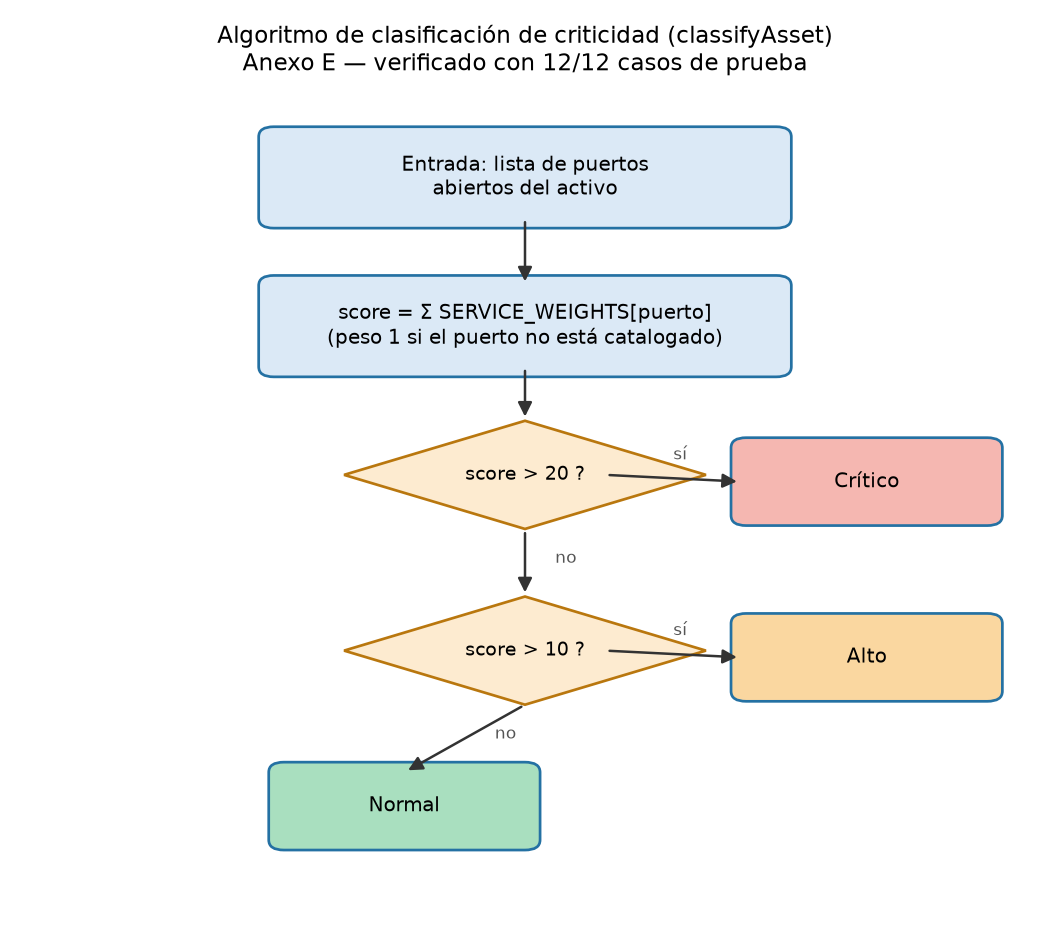
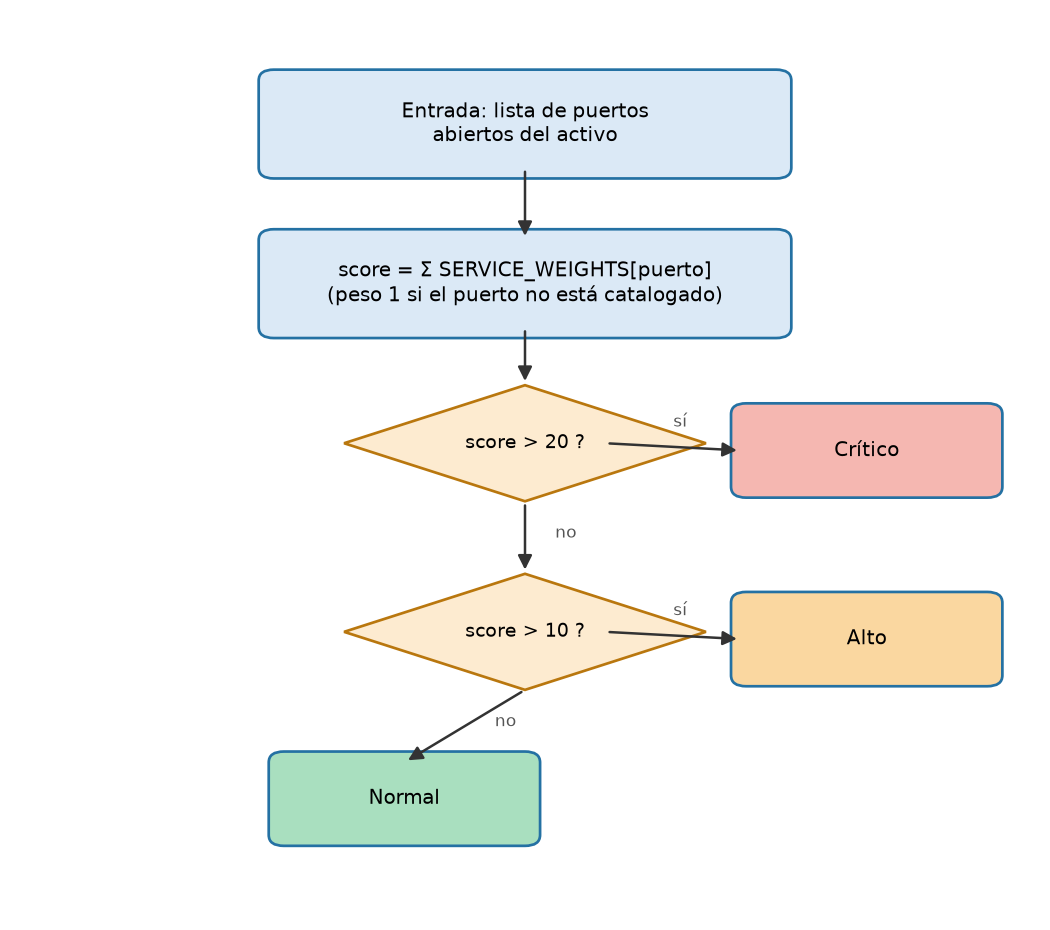
fix: figuras sin titulo incrustado; la figura 2 muestra la autenticacion y el estado Done

Changed region(s): [[0.2133, 0.0312, 0.9752, 0.8731], [0.2438, 0.9043, 0.5181, 0.9355]]

diff --git a/docs/figures/gen_fig2_secuencia_gmp.py b/docs/figures/gen_fig2_secuencia_gmp.py
@@ -21,18 +21,20 @@ for x, name in zip(xpos, actors):
     ax.plot([x, x], [1.9, 10.6], color='#999999', linestyle='--', linewidth=1)
 
 messages = [
-    (0, 1, "create_target(host)", 9.8),
-    (1, 0, "target_id", 9.3),
-    (0, 1, "create_task(target_id, config)", 8.7),
-    (1, 0, "task_id", 8.2),
-    (0, 1, "start_task(task_id)", 7.6),
-    (1, 2, "delega escaneo NVT", 7.1),
-    (1, 0, "report_id", 6.6),
-    (0, 1, "get_tasks(task_id)  [poll]", 5.8),
-    (1, 0, "status: Requested/Running", 5.3),
-    (2, 1, "resultados NVT (async)", 4.6),
-    (0, 1, "get_reports(report_id,\nfilter='rows=1000')", 3.6),
-    (1, 0, "XML con <host> y <result>\npor cada hallazgo", 2.9),
+    (0, 1, "gvm-cli: autenticación GMP\n(usuario y contraseña, por el socket)", 10.0),
+    (0, 1, "create_target(hosts Alto/Crítico)", 9.2),
+    (1, 0, "target_id", 8.75),
+    (0, 1, "create_task(target_id, config)", 8.25),
+    (1, 0, "task_id", 7.8),
+    (0, 1, "start_task(task_id)", 7.3),
+    (1, 2, "delega escaneo NVT", 6.85),
+    (1, 0, "report_id", 6.4),
+    (0, 1, "get_tasks(task_id)  [poll cada 60 s]", 5.8),
+    (1, 0, "status: Requested/Running", 5.35),
+    (2, 1, "resultados NVT (async)", 4.85),
+    (1, 0, "status: Done", 4.35),
+    (0, 1, "get_reports(report_id,\nfilter='rows=1000')", 3.55),
+    (1, 0, "XML con <host> y <result>\npor cada hallazgo", 2.75),
 ]
 
 for src, dst, text, y in messages:
@@ -52,7 +54,7 @@ ax.text(6.0, 1.4,
         "por defecto de GMP (10 resultados).",
         ha='center', va='center', fontsize=7.8, style='italic', color='#555555')
 
-ax.set_title("Diagrama de secuencia — protocolo GMP\n(4.4/4.5 — elaboración propia a partir de workflows/workflowV4_windows.json:\nCreateTarget, CreateTask, StartTask, PollStatus, DownloadPDF)", fontsize=10)
+# Sin titulo incrustado: el numero y el titulo van en el documento (APA 7).
 
 plt.tight_layout()
 plt.savefig('fig2_secuencia_gmp.png', dpi=150)

diff --git a/docs/figures/gen_fig_tiempos.py b/docs/figures/gen_fig_tiempos.py
@@ -63,10 +63,7 @@ ax.axvline(len(auto) - 0.5, color='#999999', linestyle=':', linewidth=1)
 ax.set_xticks(xs)
 ax.set_xticklabels(labels, fontsize=8)
 ax.set_ylabel('Tiempo total del ciclo (minutos)')
-ax.set_title('Tiempo total del ciclo completo\n'
-             'Automatizado: 14/08/2026, rep. 4 rayada (comprometida). Manual: operador 1 y 2 '
-             '(septiembre de 2026; op. 1 en el mismo equipo,\nop. 2 en otra instancia del laboratorio) y media heredada (otro laboratorio, sin registro crudo). '
-             'Las barras no están apareadas.', fontsize=9)
+# Sin titulo incrustado: el numero y el titulo van en el documento (APA 7).
 ax.grid(axis='y', linestyle='--', alpha=0.4)
 ax.set_axisbelow(True)
 

diff --git a/docs/figures/gen_fig_algoritmo.py b/docs/figures/gen_fig_algoritmo.py
@@ -59,7 +59,7 @@ arrow((5.8, 6.6), (7.15, 6.5), "sí", offset=(0, 0.28))
 box(2.6, 3.8, 2.4, 1.0, "Normal", fc='#a9dfbf')
 arrow((5, 5.8), (3.8, 4.8), "no")
 
-ax.set_title("Algoritmo de clasificación de criticidad (classifyAsset)\nAnexo E — verificado con 12/12 casos de prueba", fontsize=11)
+# Sin titulo incrustado: el numero y el titulo van en el documento (APA 7).
 
 plt.tight_layout()
 plt.savefig('fig9_flujo_algoritmo.png', dpi=150)

diff --git a/docs/figures/gen_fig1_arquitectura.py b/docs/figures/gen_fig1_arquitectura.py
@@ -58,7 +58,7 @@ arrow((1.6, 6.6), (1.6, 2.1))
 arrow((4.3, 6.6), (4.3, 2.1))
 label((2.95, 4.35), "resultados\n(Telegram + Mailpit)")
 
-ax.set_title("Arquitectura de despliegue de dos capas\n(4.1 — elaboración propia a partir de docker-compose.yml)", fontsize=11)
+# Sin titulo incrustado: el numero y el titulo van en el documento (APA 7).
 
 plt.tight_layout()
 plt.savefig('fig1_arquitectura.png', dpi=150)

diff --git a/docs/figures/gen_fig_confusion.py b/docs/figures/gen_fig_confusion.py
@@ -25,7 +25,7 @@ ax.set_xticklabels(labels)
 ax.set_yticklabels(labels)
 ax.set_xlabel('Clase obtenida')
 ax.set_ylabel('Clase esperada (Anexo F)')
-ax.set_title('Matriz de confusión — clasificación de criticidad\n(44 comparaciones, 4 repeticiones válidas; rep. 4 excluida)')
+# Sin titulo incrustado: el numero y el titulo van en el documento (APA 7).
 
 for i in range(3):
     for j in range(3):
